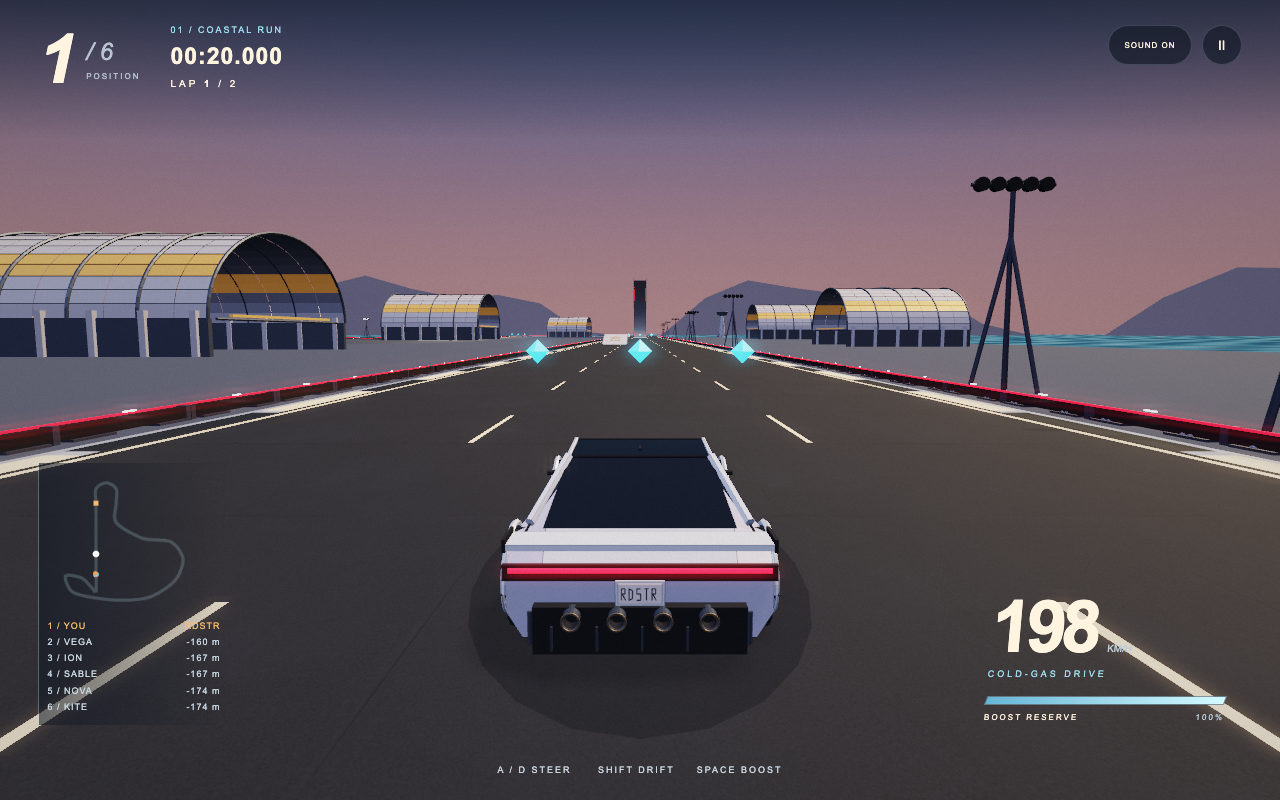
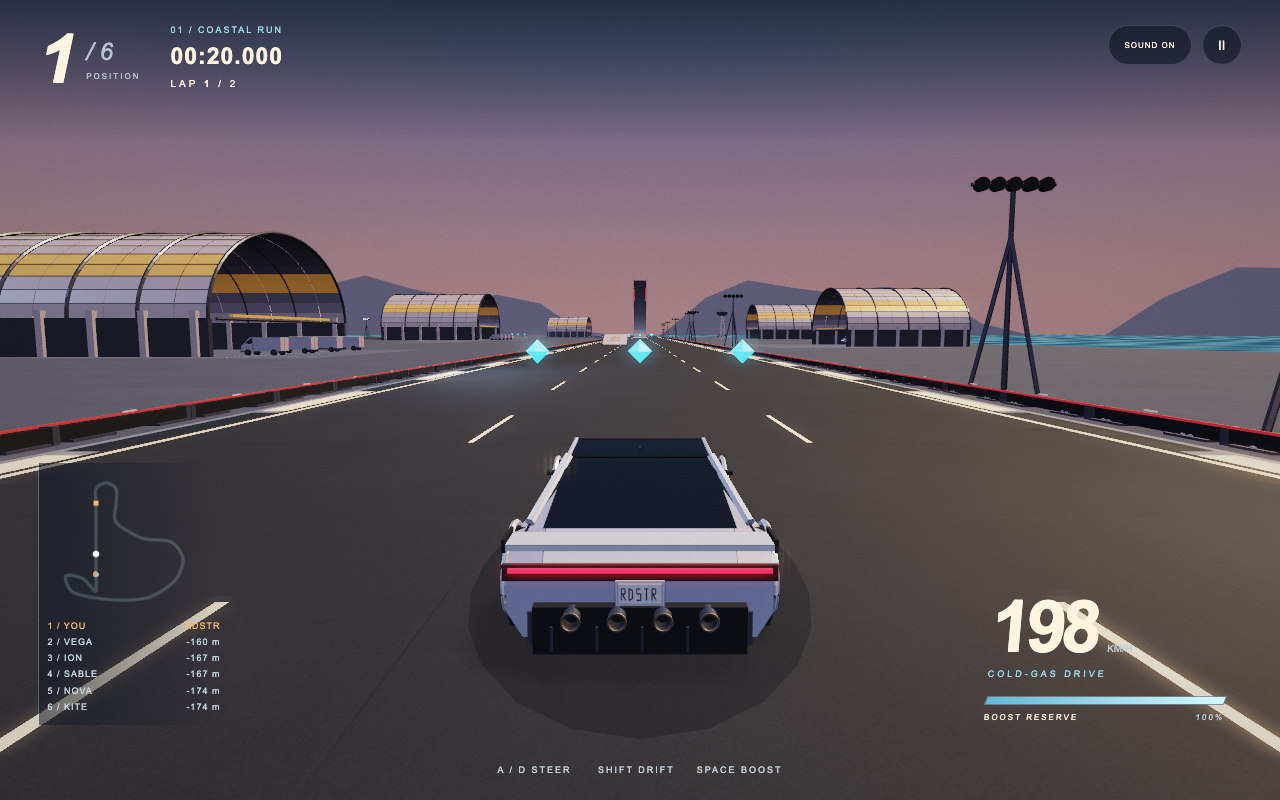
Refine racing presentation and make browser checks tolerate software rendering

diff --git a/racing/world.js b/racing/world.js
@@ -26,6 +26,8 @@ export async function buildWorld(renderer,scene,onLoad){
  const mountains=new THREE.Group();const vs=[],ix=[];for(let i=0;i<=100;i++){const a=i/100*Math.PI*2,x=170+Math.cos(a)*1900,z=100+Math.sin(a)*1900,h=75+Math.sin(i*1.38)*43+Math.sin(i*.67)*80;vs.push(x,-5,z,x,h,z);if(i)ix.push(i*2-2,i*2-1,i*2,i*2,i*2-1,i*2+1);}const mg=new THREE.BufferGeometry();mg.setAttribute('position',new THREE.Float32BufferAttribute(vs,3));mg.setIndex(ix);mg.computeVertexNormals();mountains.add(new THREE.Mesh(mg,new THREE.MeshStandardMaterial({color:0x3b4059,roughness:1,side:THREE.DoubleSide,flatShading:true})));scene.add(mountains);
  const road=material(0x353b48,.88),shoulder=material(0xabb4bf,.8),paint=material(0xffe8bf,.7),dark=material(0x1a2530,.8);
  const tex=await new THREE.TextureLoader().loadAsync('textures/atlas-concrete-base.png');tex.colorSpace=THREE.SRGBColorSpace;tex.wrapS=tex.wrapT=THREE.RepeatWrapping;tex.repeat.set(3,1);tex.anisotropy=4;road.map=tex;
+ const apronTexture=tex.clone();apronTexture.repeat.set(.045,.045);apronTexture.needsUpdate=true;island.material.map=apronTexture;island.material.color.setHex(0x626779);
+ shoulder.map=tex;
  scene.add(ribbon(-13,13,-.2,shoulder),ribbon(-11,11,0,road),ribbon(-10.7,-10.5,.025,paint),ribbon(10.5,10.7,.025,paint));
  const markings=new THREE.Group();for(let s=0;s<LENGTH;s+=14)for(const lane of [-3.7,3.7])markings.add(ribbon(lane-.06,lane+.06,.03,paint,s,Math.min(LENGTH,s+5),2));
  for(let s=0;s<LENGTH;s+=8)for(const side of [-1,1])markings.add(ribbon(side>0?11.4:-12.6,side>0?12.6:-11.4,-.17,Math.floor(s/8)%2?dark:paint,s,Math.min(LENGTH,s+7.5),3));
@@ -34,8 +36,9 @@ export async function buildWorld(renderer,scene,onLoad){
  const sides=[];for(let i=0;i<=900;i++){const s=i/900*LENGTH;for(const lane of [-13,13]){const p=sample(s,lane).p;sides.push([p.x,p.y-.2,p.z],[p.x,-3,p.z]);}}
  const verts=[],inds=[];for(let i=0;i<sides.length;i++)verts.push(...sides[i]);for(let i=0;i<900;i++)for(let side=0;side<2;side++){const a=i*4+side*2,b=a+4;inds.push(a,b,a+1,b,b+1,a+1);}const sg=new THREE.BufferGeometry();sg.setAttribute('position',new THREE.Float32BufferAttribute(verts,3));sg.setIndex(inds);sg.computeVertexNormals();scene.add(new THREE.Mesh(sg,new THREE.MeshStandardMaterial({color:0x737c88,roughness:.9,side:THREE.DoubleSide})));
  onLoad('Loading verified machinery and aerospace structures');
- const [car,ramp,lamp,boundary,hangar,tower,wedge]=await Promise.all([
-  ASSET('assets/roadster.js'),ASSET('assets/ramp.js',{keepHierarchy:true}),ASSET('assets/floodlight.js'),ASSET('assets/boundary.js'),ASSET('assets/hangar.js'),ASSET('assets/tower.js'),ASSET('assets/wedge.js')]);
+ const [car,ramp,lamp,boundary,hangar,tower,wedge,van]=await Promise.all([
+  ASSET('assets/roadster.js'),ASSET('assets/ramp.js',{keepHierarchy:true}),ASSET('assets/floodlight.js'),ASSET('assets/boundary.js'),ASSET('assets/hangar.js',{surfaces:true}),ASSET('assets/tower.js',{surfaces:true}),ASSET('assets/wedge.js',{surfaces:true}),ASSET('assets/servicevan.js')]);
+ boundary.traverse(o=>{if(o.isMesh&&o.material.emissive?.getHex()){o.material=o.material.clone();o.material.emissiveIntensity=.35;o.material.color.setHex(0xad4b4d);}});
  const rampOrigin=ramp.userData.sourceOrigin;ramp.position.set(...rampOrigin);const rampGroup=new THREE.Group();rampGroup.add(bakeStatic(ramp));place(rampGroup,GRAVITY.entry);scene.add(rampGroup);
  rampGroup.traverse(o=>{if(o.isMesh&&o.material.name==='stone'){o.material=o.material.clone();o.material.map=tex;o.material.color.setHex(0xb2b6c4);}});
  const blocks=[];for(let b=0;b<16;b++){const block=new THREE.Group();const from=b/16*LENGTH,to=(b+1)/16*LENGTH;
@@ -46,12 +49,22 @@ export async function buildWorld(renderer,scene,onLoad){
  for(const [s,lane] of [[180,75],[GRAVITY.entry+20,52],[1320,58],[2300,48]]){const t=tower.clone(true);place(t,s,lane);buildings.add(t);}
  // Broad shell spans the road: a real covered sector rather than a backdrop.
  for(let i=0;i<3;i++){const cover=hangar.clone(true);cover.scale.set(1.12,1.2,1);place(cover,1900+i*24,0);buildings.add(cover);}
- scene.add(bakeStatic(buildings));
+ // Airfield aprons and service traffic provide scale between track and hangars.
+ const apronMarks=new THREE.Group(),apronMat=material(0x525968,.92),lineMat=material(0xc9b28e,.85);
+ for(const [s,lane] of [[110,39],[290,38],[450,48],[240,-48],[410,-58],[630,-39],[1670,40],[2060,34]]){
+  const pad=new THREE.Mesh(new THREE.PlaneGeometry(31,37),apronMat);pad.rotation.x=-Math.PI/2;const loc=sample(s,lane);pad.position.copy(loc.p);pad.position.y=-.08;pad.rotation.z=-loc.yaw;apronMarks.add(pad);
+  for(let j=0;j<4;j++){
+   const parked=van.clone(true);parked.scale.setScalar(.85);place(parked,s-11+j*7,lane+7);parked.rotation.y+=Math.PI/2;buildings.add(parked);
+   const strip=new THREE.Mesh(new THREE.PlaneGeometry(.12,9),lineMat);strip.rotation.x=-Math.PI/2;const sp=sample(s-14+j*7,lane+7);strip.position.copy(sp.p);strip.position.y=.02;strip.rotation.z=-sp.yaw;apronMarks.add(strip);
+  }
+ }
+ scene.add(bakeStatic(buildings),bakeStatic(apronMarks));
  for(const j of JUMPS){const wedgeClone=wedge.clone(true);place(wedgeClone,j.s-6,j.lane,.03);scene.add(wedgeClone);}
  // Start/finish paint and launch-lane graphics are markings on existing surfaces.
  const startPaint=new THREE.Group();for(let x=-10;x<10;x+=1)for(let z=0;z<3;z++){const tile=new THREE.Mesh(new THREE.PlaneGeometry(1,1),((x+z)%2)?paint:dark);tile.rotation.x=-Math.PI/2;const p=sample(0,x+.5).p;tile.position.set(p.x,.045,p.z+z);startPaint.add(tile);}scene.add(bakeStatic(startPaint));
  const launchPaint=material(0x8ad3e3,.5);launchPaint.emissive.setHex(0x163e54);for(let k=0;k<9;k++)scene.add(ribbon(-3.5,3.5,.04,launchPaint,GRAVITY.entry-70+k*7,GRAVITY.entry-67+k*7,1));
  const pickupMeshes=[];const cellGeo=new THREE.OctahedronGeometry(.7);for(let i=0;i<PICKUPS.length;i++)for(let j=0;j<3;j++){const m=new THREE.MeshStandardMaterial({color:0xa7f5ff,emissive:0x38c9ed,emissiveIntensity:2,metalness:.5,roughness:.2});const cell=new THREE.Mesh(cellGeo,m);place(cell,PICKUPS[i].s,PICKUPS[i].lanes[j],1.4);scene.add(cell);pickupMeshes.push({mesh:cell,key:`${i}:${j}`,base:cell.position.y});}
  const reflectionScene=new THREE.Scene();reflectionScene.background=new THREE.Color(0x43546a);for(const [pos,scale,col] of [[[0,8,0],[20,10],0xbcc6ed],[[5,3,-4],[3,8],0xffe4c8],[[-6,3,1],[2,7],0x999acb]]){const card=new THREE.Mesh(new THREE.PlaneGeometry(...scale),new THREE.MeshBasicMaterial({color:col,side:THREE.DoubleSide}));card.position.set(...pos);card.lookAt(0,0,0);reflectionScene.add(card);}const pmrem=new THREE.PMREMGenerator(renderer),env=pmrem.fromScene(reflectionScene,.05).texture;pmrem.dispose();car.traverse(o=>{if(o.isMesh){o.material=o.material.clone();o.material.envMap=env;o.material.envMapIntensity=.7;}});
- return {car,rampGroup,pickupMeshes,shadow,seaMaterial,blocks};
+ const pools=[];for(let i=0;i<3;i++){const light=new THREE.PointLight(i===1?0xffd39c:0xb6cbe9,160,38,2);scene.add(light);pools.push(light);}
+ return {car,rampGroup,pickupMeshes,shadow,seaMaterial,blocks,pools};
 }

diff --git a/racing/assets/servicevan.js b/racing/assets/servicevan.js
@@ -1,0 +1,12 @@
+// 404 reference-driven candidate: Tripod tower with circular recessed lamps
+export default function(THREE){
+const g=new THREE.Group();
+const mat=(c,r=.7,m=.1,e=0)=>new THREE.MeshStandardMaterial({color:c,roughness:r,metalness:m,emissive:e,emissiveIntensity:e?2.5:0,side:THREE.DoubleSide,flatShading:true});
+const ink=mat(0x151822),steel=mat(0x55576b,.6,.6),silver=mat(0xa3a1b1,.8,.15),red=mat(0xff3347,.4,.1,0xff152b),white=mat(0xdce9ff,.35,.2,0xe2efff),ground=mat(0x11151f,.85,.05);
+const mesh=(geo,m,p=[0,0,0])=>{const o=new THREE.Mesh(geo,m);o.position.set(...p);g.add(o);return o;};
+const box=(w,h,d,p,m=steel)=>mesh(new THREE.BoxGeometry(w,h,d),m,p);
+const rod=(a,b,r=.05,m=steel)=>{a=new THREE.Vector3(...a);b=new THREE.Vector3(...b);const v=b.clone().sub(a);const o=mesh(new THREE.CylinderGeometry(r,r,v.length(),6),m,a.clone().add(b).multiplyScalar(.5).toArray());o.quaternion.setFromUnitVectors(new THREE.Vector3(0,1,0),v.normalize());return o;};
+const face=(pts,m)=>{const a=[];for(let i=1;i<pts.length-1;i++)a.push(...pts[0],...pts[i],...pts[i+1]);const geo=new THREE.BufferGeometry();geo.setAttribute('position',new THREE.Float32BufferAttribute(a,3));geo.computeVertexNormals();return mesh(geo,m);};
+box(2.05,1.76,3.55,[0,1.45,-.75],silver);box(2.05,.62,1.6,[0,.88,1.7],silver);face([[-1.02,1.16,.9],[1.02,1.16,.9],[.96,2.32,.9],[-.96,2.32,.9]],silver);face([[-.96,2.32,.9],[.96,2.32,.9],[.96,2.32,1.35],[-.96,2.32,1.35]],silver);face([[-.96,2.32,1.35],[.96,2.32,1.35],[1.02,1.16,2.5],[-1.02,1.16,2.5]],silver);face([[-.87,2.19,1.47],[.87,2.19,1.47],[.91,1.58,2.10],[-.91,1.58,2.10]],ink);for(const s of [-1,1]){face([[s*1.026,1.19,.9],[s*.965,2.32,.9],[s*.965,2.32,1.35],[s*1.026,1.19,2.5]],silver);face([[s*1.034,1.55,1.01],[s*.979,2.19,1.01],[s*.979,2.19,1.29],[s*1.034,1.55,1.98]],ink);box(.07,.65,.06,[s*1.07,1.12,.97],steel);box(.1,.03,.26,[s*1.05,1.35,.45],ink);box(.13,.22,.25,[s*1.15,1.6,1.4],ink);box(.30,.15,.04,[s*.72,1.04,2.53],white);box(.12,.48,.04,[s*.87,1.4,-2.54],red);rod([s*.93,2.28,-2.5],[s*.93,.62,-2.5],.012,ink);}box(1.3,.24,.06,[0,.82,2.53],ink);for(let i=0;i<5;i++)box(1.2,.012,.02,[0,.74+i*.04,2.57],steel);box(2.1,.18,.15,[0,.53,2.53],ink);box(.02,1.6,.03,[0,1.44,-2.54],ink);for(const x of [-1.03,1.03])for(const z of [-1.65,1.65]){const tire=mesh(new THREE.CylinderGeometry(.39,.39,.26,20),ink,[x,.4,z]);tire.rotation.z=Math.PI/2;const rim=mesh(new THREE.CylinderGeometry(.23,.23,.28,12),steel,[x,.4,z]);rim.rotation.z=Math.PI/2;for(let k=0;k<5;k++){const a=k*6.28/5;mesh(new THREE.SphereGeometry(.025,5,4),ink,[x+Math.sign(x)*.15,.4+Math.sin(a)*.13,z+Math.cos(a)*.13]);}}
+const bounds=new THREE.Box3(),v=new THREE.Vector3();g.updateMatrixWorld(true);g.traverse(o=>{if(o.isMesh){const p=o.geometry.attributes.position;for(let i=0;i<p.count;i++)bounds.expandByPoint(v.fromBufferAttribute(p,i).applyMatrix4(o.matrixWorld));}});const c=bounds.getCenter(new THREE.Vector3());g.children.forEach(o=>{o.position.x-=c.x;o.position.y-=bounds.min.y;o.position.z-=c.z;});g.userData.sourceOrigin=[c.x,bounds.min.y,c.z];return g;
+}

diff --git a/racing/main.js b/racing/main.js
@@ -25,7 +25,7 @@ function resetCamera(){const p=position(race.cars[0]);camera.position.set(p.x-4,
 function jetMaterial(color){return new THREE.ShaderMaterial({transparent:true,depthWrite:false,side:THREE.DoubleSide,blending:THREE.AdditiveBlending,uniforms:{color:{value:new THREE.Color(color)},time:{value:0}},vertexShader:'varying vec2 v;void main(){v=uv;gl_Position=projectionMatrix*modelViewMatrix*vec4(position,1.);}',fragmentShader:'varying vec2 v;uniform vec3 color;uniform float time;void main(){float a=smoothstep(0.,.15,v.y)*pow(max(0.,v.y),.7)*(.25+.18*sin(v.y*35.-time*42.));gl_FragColor=vec4(color,a);}' });}
 function createActors(){
  for(let i=0;i<6;i++){
-  const model=world.car.clone(true);model.traverse(o=>{if(o.isMesh){o.material=o.material.clone();if(o.material.color.r>.4&&o.material.color.g>.4&&!o.material.emissive?.getHex())o.material.color.lerp(new THREE.Color(COLORS[i]),i?.7:.0);o.castShadow=i===0;o.receiveShadow=true;}});
+  const model=world.car.clone(true);model.traverse(o=>{if(o.isMesh){o.material=o.material.clone();if(o.material.color.r>.4&&o.material.color.g>.4&&!o.material.emissive?.getHex()){o.material.color.lerp(new THREE.Color(COLORS[i]),i?.7:.0);o.material.metalness=.52;o.material.roughness=.32;o.material.envMapIntensity=1.05;}o.castShadow=i===0;o.receiveShadow=true;}});
   if(i===0){const ms=[];model.traverse(o=>{if(o.isMesh&&!o.material.emissive?.getHex())ms.push(o);});for(const o of ms){const edge=new THREE.LineSegments(new THREE.EdgesGeometry(o.geometry,34),new THREE.LineBasicMaterial({color:0x0b1320,transparent:true,opacity:.35}));o.add(edge);}}
   const group=new THREE.Group();group.add(model);scene.add(group);const jetGroup=new THREE.Group(),mat=jetMaterial(i?COLORS[i]:0x9cdbed);group.add(jetGroup);
   for(const x of [-.72,-.25,.25,.72]){const jet=new THREE.Mesh(new THREE.CylinderGeometry(.035,.24,1,12,1,true),mat);jet.rotation.x=Math.PI/2;jet.position.set(x,.46,-3);jetGroup.add(jet);}
@@ -65,6 +65,7 @@ function drawCamera(dt){
  }
  camera.position.lerp(desired,1-Math.exp(-dt*(c.stunt?6:16)));camera.lookAt(target);camera.updateProjectionMatrix();
  world.shadow.position.set(p.x-20,p.y+45,p.z-12);world.shadow.target.position.set(p.x,p.y,p.z);world.shadow.target.updateMatrixWorld();
+ world.pools.forEach((light,i)=>{const pool=sample(c.s+(i-1)*38,i%2?10:-10);light.position.copy(pool.p);light.position.y+=5.5;});
 }
 function drawMap(){
  map.clearRect(0,0,210,180);const transform=p=>[18+(p.x+170)*.25,164-(p.z+410)*.15];map.lineWidth=4;map.strokeStyle='#93acb24d';map.beginPath();for(let i=0;i<=160;i++){const [x,y]=transform(sample(i/160*LENGTH).p);i?map.lineTo(x,y):map.moveTo(x,y);}map.stroke();

diff --git a/racing/assets/_verify/sheet.html b/racing/assets/_verify/sheet.html
@@ -29,6 +29,10 @@
   <span class="s">ok</span>
   <span style="color:#888">11304 tris, 384 meshes</span></div>
   <img src="/__target__/_verify/roadster.png"></div>
+<div class="r"><div class="h"><span class="n">servicevan</span>
+  <span class="s">ok</span>
+  <span style="color:#888">1416 tris, 58 meshes</span></div>
+  <img src="/__target__/_verify/servicevan.png"></div>
 <div class="r"><div class="h"><span class="n">tower</span>
   <span class="s">ok</span>
   <span style="color:#888">932 tris, 121 meshes</span></div>

diff --git a/racing/README.md b/racing/README.md
@@ -46,7 +46,7 @@ npm run race:verify      # asset geometry views; retained original-ramp warnings
 
 The browser driver reads telemetry but operates through keyboard, pointer and touch input. It checks countdown, boost, steering direction, pause, two full laps, gravity transfers, pickups, drift, results, restart and mobile interaction. A complete driven race took about 107 seconds in the recorded run. Simulation tests assert finite positions, bounded charge, continuous progress, a traversable road bypass, all rivals finishing and a skilled player winning.
 
-Selected geometry: **6/7 clean**. All three new props pass. The original ramp still triggers its documented broad-front/back featurelessness warnings; the warnings are retained. No live jam-gate pass or real-phone frame-rate claim is made.
+Selected geometry: **7/8 clean**. All three new props pass. The original ramp still triggers its documented broad-front/back featurelessness warnings; the warnings are retained. No live jam-gate pass or real-phone frame-rate claim is made.
 
 `../evidence/racing/playtest/` contains actual-input race evidence. `../evidence/racing/final/` contains deliberately staged visual-inspection views, including the corrected jet shader. Earlier baseline/review folders document superseded visual iterations. The first driven race exposed a jet shader domain error and a sub-metre ramp-entry progress regression; both were corrected, with the progress invariant covered by simulation tests.
 
@@ -62,4 +62,4 @@ Selected geometry: **6/7 clean**. All three new props pass. The original ramp st
 | `candidates/` | Three constructions for each new prop, plus verifier evidence |
 | `STYLE_LOCK.md` | Shared visual direction |
 
-This is the first playable racing iteration. The environment still needs richer landscape detail, the camera and handling need human playtesting, and rival vehicles currently share the Roadster geometry with distinct colors. Wheel geometry is static in this build. No career, additional circuits, multiplayer, vehicle damage system or production-quality soundtrack is claimed. The cinematic's exported MP4 is still the original film, not a recording of this game.
+This is the first playable racing iteration. A fresh Atlas blind review rejected the first rendering against the target because of vehicle reflection shaping, sparse surroundings and flat dusk lighting. A correction pass added service vehicles/aprons, surface treatment, local light pools and less intense track edging; it has not been certified as matching the concept art. The environment still needs richer landscape detail, the camera and handling need human playtesting, and rival vehicles currently share the Roadster geometry with distinct colors. Wheel geometry is static in this build. No career, additional circuits, multiplayer, vehicle damage system or production-quality soundtrack is claimed. The cinematic's exported MP4 is still the original film, not a recording of this game.

diff --git a/evidence/racing/blind-review/NOTES.md b/evidence/racing/blind-review/NOTES.md
@@ -1,0 +1,7 @@
+# Independent review record
+
+The first attempt could not retrieve the GitHub URL and made no visual judgment. The pair was then uploaded through Atlas API file upload; the fresh project inspected that actual file. The second operation chose B (Atlas concept) over A (the running game) and rejected A against the target. Full response is retained in review-result.json. No passed AAA claim is made.
+
+Corrections after this comparison: material reflections on the preserved Roadster, procedural surface treatment on selected structures, Atlas concrete on the apron surface, service vans and parking markings, three local light pools, and lower emission on long track edges. The suggestion to replace the Roadster body with the concept vehicle was not adopted because the supplied Roadster and user-approved build are the subject authority. Final staged views show the corrected rendering. This is a playable iteration with remaining art work.
+
+The stock pair generator decoded and wrote pair_01.png correctly, but its CONTACT output had a broken image because the generated files were not added to its server lookup. For this single-pair review CONTACT.png was replaced by the verified pair image. The pinned vendor harness was not edited.
